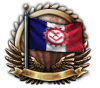
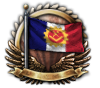
Update webpage (automatic)

Changed region(s): [[0.42, 0.2955, 0.69, 0.5455]]

diff --git a/index.html b/index.html
@@ -305,7 +305,7 @@
         </label>
       </div>
       <div id="goalsSection" class="docs-section">
-        <h6 class="docs-header">National focuses (2313)</h6>
+        <h6 class="docs-header">National focuses (2317)</h6>
         <div class="icon-container flex flex-wrap justify-left mt-3">
           <div data-clipboard-text="GFX_goal_continuous_political" data-search-text="GFX_goal_continuous_political" title="GFX_goal_continuous_political" class="icon">
             <img src="gfx/interface/goals/continuous_political.png" alt="GFX_goal_continuous_political">
@@ -505,6 +505,22 @@
         
           <div data-clipboard-text="GFX_goal_comfrance" data-search-text="GFX_goal_comfrance" title="GFX_goal_comfrance" class="icon">
             <img src="gfx/interface/goals/flag_comfrance.png" alt="GFX_goal_comfrance">
+          </div>
+        
+          <div data-clipboard-text="GFX_goal_comfrance_alternate" data-search-text="GFX_goal_comfrance_alternate" title="GFX_goal_comfrance_alternate" class="icon">
+            <img src="gfx/interface/goals/flag_comfrance_alternate.png" alt="GFX_goal_comfrance_alternate">
+          </div>
+        
+          <div data-clipboard-text="GFX_goal_comfrance_red" data-search-text="GFX_goal_comfrance_red" title="GFX_goal_comfrance_red" class="icon">
+            <img src="gfx/interface/goals/flag_comfrance_red.png" alt="GFX_goal_comfrance_red">
+          </div>
+        
+          <div data-clipboard-text="GFX_goal_comfrance_sorelian" data-search-text="GFX_goal_comfrance_sorelian" title="GFX_goal_comfrance_sorelian" class="icon">
+            <img src="gfx/interface/goals/flag_comfrance_sorelian.png" alt="GFX_goal_comfrance_sorelian">
+          </div>
+        
+          <div data-clipboard-text="GFX_goal_comfrance_neosocialist" data-search-text="GFX_goal_comfrance_neosocialist" title="GFX_goal_comfrance_neosocialist" class="icon">
+            <img src="gfx/interface/goals/flag_comfrance_neosocialist.png" alt="GFX_goal_comfrance_neosocialist">
           </div>
         
           <div data-clipboard-text="GFX_goal_aus" data-search-text="GFX_goal_aus" title="GFX_goal_aus" class="icon">
@@ -24614,7 +24630,7 @@
       </div>
     </div>
     <footer>
-      <p>Made with ❤ by <a href="https://github.com/Yard1">Yard1</a> with help from <a href="http://getskeleton.com/">Skeleton CSS</a>, <a href="https://feathericons.com/">Feather</a>, <a href="https://clipboardjs.com/">ClipboardJS</a> and <a href="https://www.w3schools.com/">W3Schools</a>.<br \>Last updated: 2024-04-20 17:24:27.111515 UTC</p>
+      <p>Made with ❤ by <a href="https://github.com/Yard1">Yard1</a> with help from <a href="http://getskeleton.com/">Skeleton CSS</a>, <a href="https://feathericons.com/">Feather</a>, <a href="https://clipboardjs.com/">ClipboardJS</a> and <a href="https://www.w3schools.com/">W3Schools</a>.<br \>Last updated: 2024-04-20 18:32:30.018689 UTC</p>
     </footer>
   </div>
 </body>
